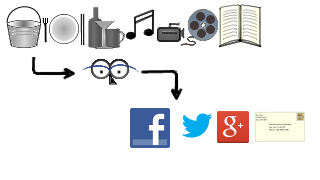
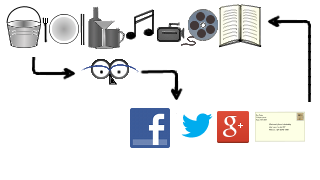
improved features and flow slides

Changed region(s): [[0.8125, 0.0833, 0.9688, 0.5556]]

diff --git a/docroot/js/amd/layout.js b/docroot/js/amd/layout.js
@@ -8,7 +8,7 @@
 define([], function () {
     "use strict";
 
-    var slides = [ "cycleframe.png", "pens.png", "feature.png",
+    var slides = [ "cycleframe.png", "pens.png", "feature2.png",
                    "mor01.png", "mor02.png", "mor03.png", "mor04.png", 
                    "mor05.png", "mor06.png", "mor07.png", "mor08.png", 
                    "mor09.png", "mor10.png", "mor11.png", "mor12.png" ],
